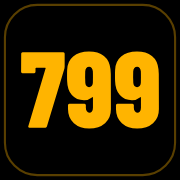
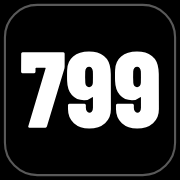
style: remove a cor ambar do site (destaque agora e branco)
- variavel --amber renomeada para --accent e definida como branco
- luzes e engrenagens do fundo 3D em branco; fotos do fundo em tons de cinza (filter via CSS)
- favicon 799 regenerado em branco (icon.svg, favicon.ico, apple-icon.png)
- docs do fundo 3D sem referencias a luz ambar
- hover do botao primario ganha halo, ja que o destaque agora e branco

diff --git a/src/app/globals.css b/src/app/globals.css
@@ -4,7 +4,7 @@
   --muted: #9a9a9a;
   --line: #2b2b2b;
   --line-strong: #4a4a4a;
-  --amber: #ffb400;
+  --accent: #ffffff;
 
   --display: "Barlow Condensed", "Arial Narrow", Arial, sans-serif;
   --text: "Barlow", system-ui, -apple-system, "Segoe UI", Roboto, sans-serif;
@@ -55,15 +55,15 @@ a {
 }
 
 :focus-visible {
-  outline: 2px solid var(--amber);
+  outline: 2px solid var(--accent);
   outline-offset: 3px;
 }
 
 /* Area de gestao (/gestao): mesmo design system do site, mas os efeitos que no
-   site publico usam a cor da marca (--amber) viram cinza claro/branco aqui —
-   é um painel interno, nao precisa do amarelo que é a identidade do site. */
+   site publico usam o destaque (--accent, branco) viram cinza claro aqui —
+   é um painel interno. */
 .gestao-shell {
-  --amber: #d8d8d8;
+  --accent: #d8d8d8;
 }
 
 .gestao-shell .btn {
@@ -107,8 +107,9 @@ a {
 }
 
 .btn-primary:hover {
-  background: var(--amber);
-  border-color: var(--amber);
+  background: var(--accent);
+  border-color: var(--accent);
+  box-shadow: 0 0 0 3px rgba(255, 255, 255, 0.22);
 }
 
 .btn-ghost {
@@ -156,7 +157,7 @@ a {
 
 .wordmark b {
   font-weight: 700;
-  color: var(--amber);
+  color: var(--accent);
 }
 
 /* pisca-alerta: a unica animacao continua da pagina */
@@ -164,7 +165,7 @@ a {
   width: 0.55rem;
   height: 0.55rem;
   border-radius: 50%;
-  background: var(--amber);
+  background: var(--accent);
   animation: hazard 1.2s steps(1, end) infinite;
 }
 
@@ -289,7 +290,7 @@ a {
   border: 1px solid var(--line-strong);
   border-radius: 50%;
   font: 700 0.95rem/1 var(--display);
-  color: var(--amber);
+  color: var(--accent);
 }
 
 .chat-body {
@@ -419,7 +420,7 @@ a {
 }
 
 .review-stars {
-  color: var(--amber);
+  color: var(--accent);
   letter-spacing: 0.15em;
   font-size: 1.1rem;
 }
@@ -476,16 +477,16 @@ a {
   display: inline-block;
   align-self: flex-start;
   padding: 0.2rem 0.6rem;
-  border: 1px solid var(--amber);
+  border: 1px solid var(--accent);
   border-radius: 999px;
-  color: var(--amber);
+  color: var(--accent);
   font: 700 0.72rem/1 var(--text);
   letter-spacing: 0.04em;
   text-transform: uppercase;
 }
 
 .symptom--highlight {
-  border-bottom-color: var(--amber);
+  border-bottom-color: var(--accent);
 }
 
 .symptom--highlight:hover .symptom-badge {
@@ -687,7 +688,7 @@ a {
 }
 
 .lead-card[data-status="novo"] {
-  border-color: var(--amber);
+  border-color: var(--accent);
 }
 
 .lead-top {
@@ -759,7 +760,7 @@ a {
   display: block;
   grid-column: 1 / -1;
   margin-top: 0.25rem;
-  color: var(--amber);
+  color: var(--accent);
   font-size: 0.85rem;
 }
 
@@ -920,7 +921,7 @@ a {
 .gestao-nav-links a:hover,
 .gestao-nav-links a.active {
   color: var(--fg);
-  border-bottom-color: var(--amber);
+  border-bottom-color: var(--accent);
 }
 
 .gestao-page {
@@ -1423,7 +1424,7 @@ a {
 }
 
 .gestao-history-value {
-  color: var(--amber);
+  color: var(--accent);
   font-weight: 600;
 }
 
@@ -1568,8 +1569,8 @@ a {
 .os-filtro:hover,
 .os-filtro.active {
   color: var(--bg);
-  background: var(--amber);
-  border-color: var(--amber);
+  background: var(--accent);
+  border-color: var(--accent);
   font-weight: 700;
 }
 
@@ -1587,8 +1588,8 @@ a {
 
 .os-badge[data-status="aprovado"],
 .os-badge[data-status="em_execucao"] {
-  color: var(--amber);
-  border-color: var(--amber);
+  color: var(--accent);
+  border-color: var(--accent);
 }
 
 .os-badge[data-status="finalizado"],
@@ -1609,7 +1610,7 @@ a {
 }
 
 .os-card-link:hover .gestao-history-item {
-  border-color: var(--amber);
+  border-color: var(--accent);
 }
 
 .os-itens-totais {
@@ -1682,7 +1683,7 @@ a {
 
 a.dash-card:hover,
 a.dash-card:focus-visible {
-  border-color: var(--amber);
+  border-color: var(--accent);
   background: #141414;
 }
 
@@ -1727,7 +1728,7 @@ a.dash-card:focus-visible {
 
 .dash-atalho:hover,
 .dash-atalho:focus-visible {
-  background: var(--amber);
+  background: var(--accent);
 }
 
 .dash-atalho--principal {
@@ -1871,6 +1872,7 @@ body:has(.fundo-3d) {
 .fundo-camada {
   position: absolute;
   height: auto;
+  filter: grayscale(1); /* as fotos tem reflexos alaranjados: fundo so em preto e branco */
   user-select: none;
   will-change: transform;
   /* profundidade (--d): quanto maior, mais a camada se mexe. Valores definidos em cada camada. */
@@ -1911,12 +1913,12 @@ body:has(.fundo-3d) {
   opacity: max(0.2, calc(0.7 - var(--sy, 0) / 900));
 }
 
-/* Luz ambar vinda de cima, no tom da marca */
+/* Luz branca vinda de cima */
 .fundo-luz {
   position: absolute;
   inset: 0;
   background:
-    radial-gradient(60% 45% at 78% 18%, rgba(255, 180, 0, 0.14), transparent 70%),
+    radial-gradient(60% 45% at 78% 18%, rgba(255, 255, 255, 0.09), transparent 70%),
     radial-gradient(40% 35% at 12% 90%, rgba(255, 255, 255, 0.06), transparent 70%);
   animation: fundo-respirar 9s ease-in-out infinite alternate;
 }
@@ -1941,7 +1943,7 @@ body:has(.fundo-3d) {
 
 .fundo-engrenagem {
   position: absolute;
-  color: rgba(255, 180, 0, 0.1);
+  color: rgba(255, 255, 255, 0.07);
   will-change: transform;
 }
 

diff --git a/docs/fundo-3d.md b/docs/fundo-3d.md
@@ -9,7 +9,7 @@ O fundo é montado por `src/components/FundoDinamico.tsx` em camadas com profund
 | `ferramentas.webp` | Ferramentas de mecânico | 1600 x 1600 px |
 | `garagem.webp` | Cenário da oficina (opcional) | 2400 x 1350 px |
 
-Sem nenhum arquivo o fundo mostra só os efeitos em CSS (engrenagens girando, luz âmbar e
+Sem nenhum arquivo o fundo mostra só os efeitos em CSS (engrenagens girando, luz branca e
 piso em grade). Cada imagem que for adicionada aparece sozinha no próximo deploy; não é
 preciso mexer em código.
 
@@ -26,7 +26,7 @@ transparentes demais.
 
 > Two Volkswagen cars parked at a dramatic three-quarter front angle, a silver Golf GTI
 > Mk7 in the foreground and a dark grey Jetta slightly behind it, photorealistic studio
-> automotive photography, pure black background (#000000), strong amber rim lighting along
+> automotive photography, pure black background (#000000), strong white rim lighting along
 > the roofline and fenders, soft white edge light, glossy reflections, low camera angle,
 > sharp focus, no brand logos, no license plates, no text, no people, no floor reflection
 > pattern, ultra detailed, 4K.
@@ -35,14 +35,14 @@ transparentes demais.
 
 > Floating arrangement of mechanic tools on a pure black background (#000000): combination
 > wrenches, a socket set with ratchet, a brake disc, a spark plug, a piston and a hydraulic
-> jack, photorealistic studio product photography, dramatic amber rim lighting, shallow
+> jack, photorealistic studio product photography, dramatic white rim lighting, shallow
 > depth of field on the far objects, objects spread so the center-right stays empty, no
 > brand logos, no text, no people, ultra detailed, 4K.
 
 **Garagem** (formato 16:9, opcional)
 
 > Wide dark auto repair workshop interior, empty, car lift in the background, tool wall
-> softly out of focus, deep black shadows, a few warm amber lamps, cinematic and moody,
+> softly out of focus, deep black shadows, a few soft white lamps, cinematic and moody,
 > very low brightness, no people, no text, no logos, photorealistic.
 
 Depois de gerar: baixe, converta para **webp** (qualidade 80, idealmente abaixo de 300 KB
